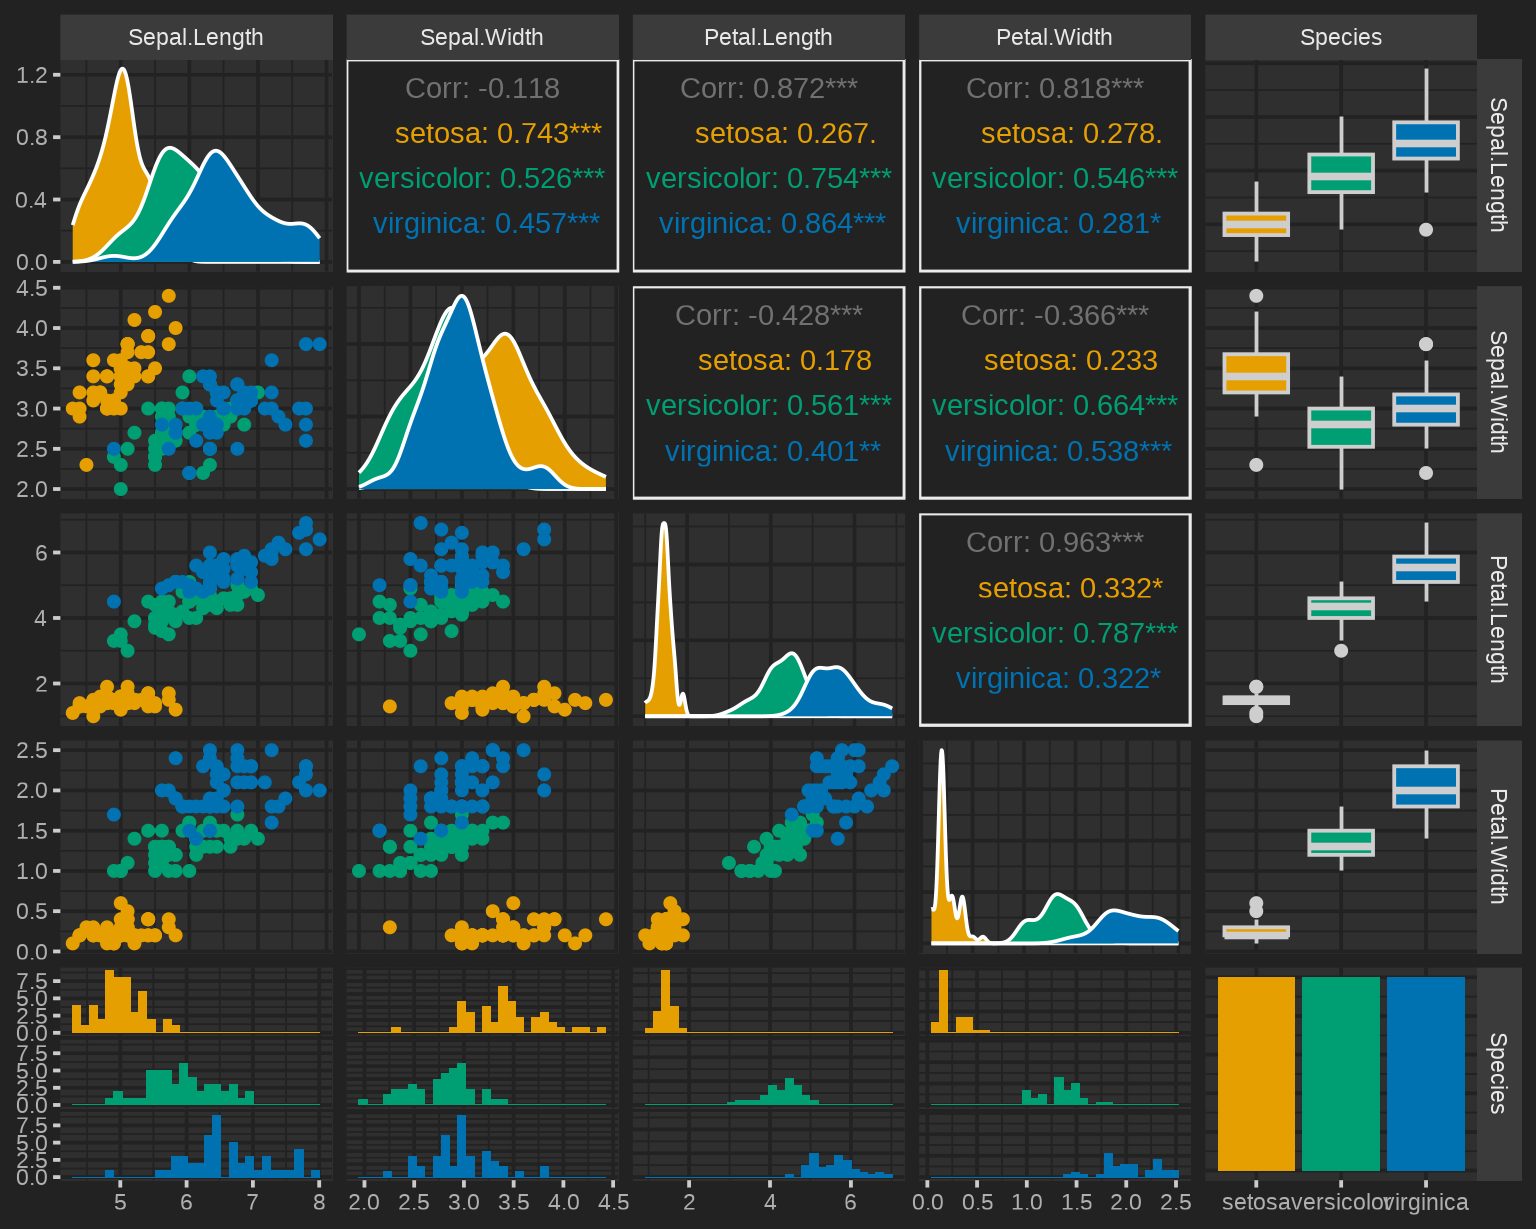
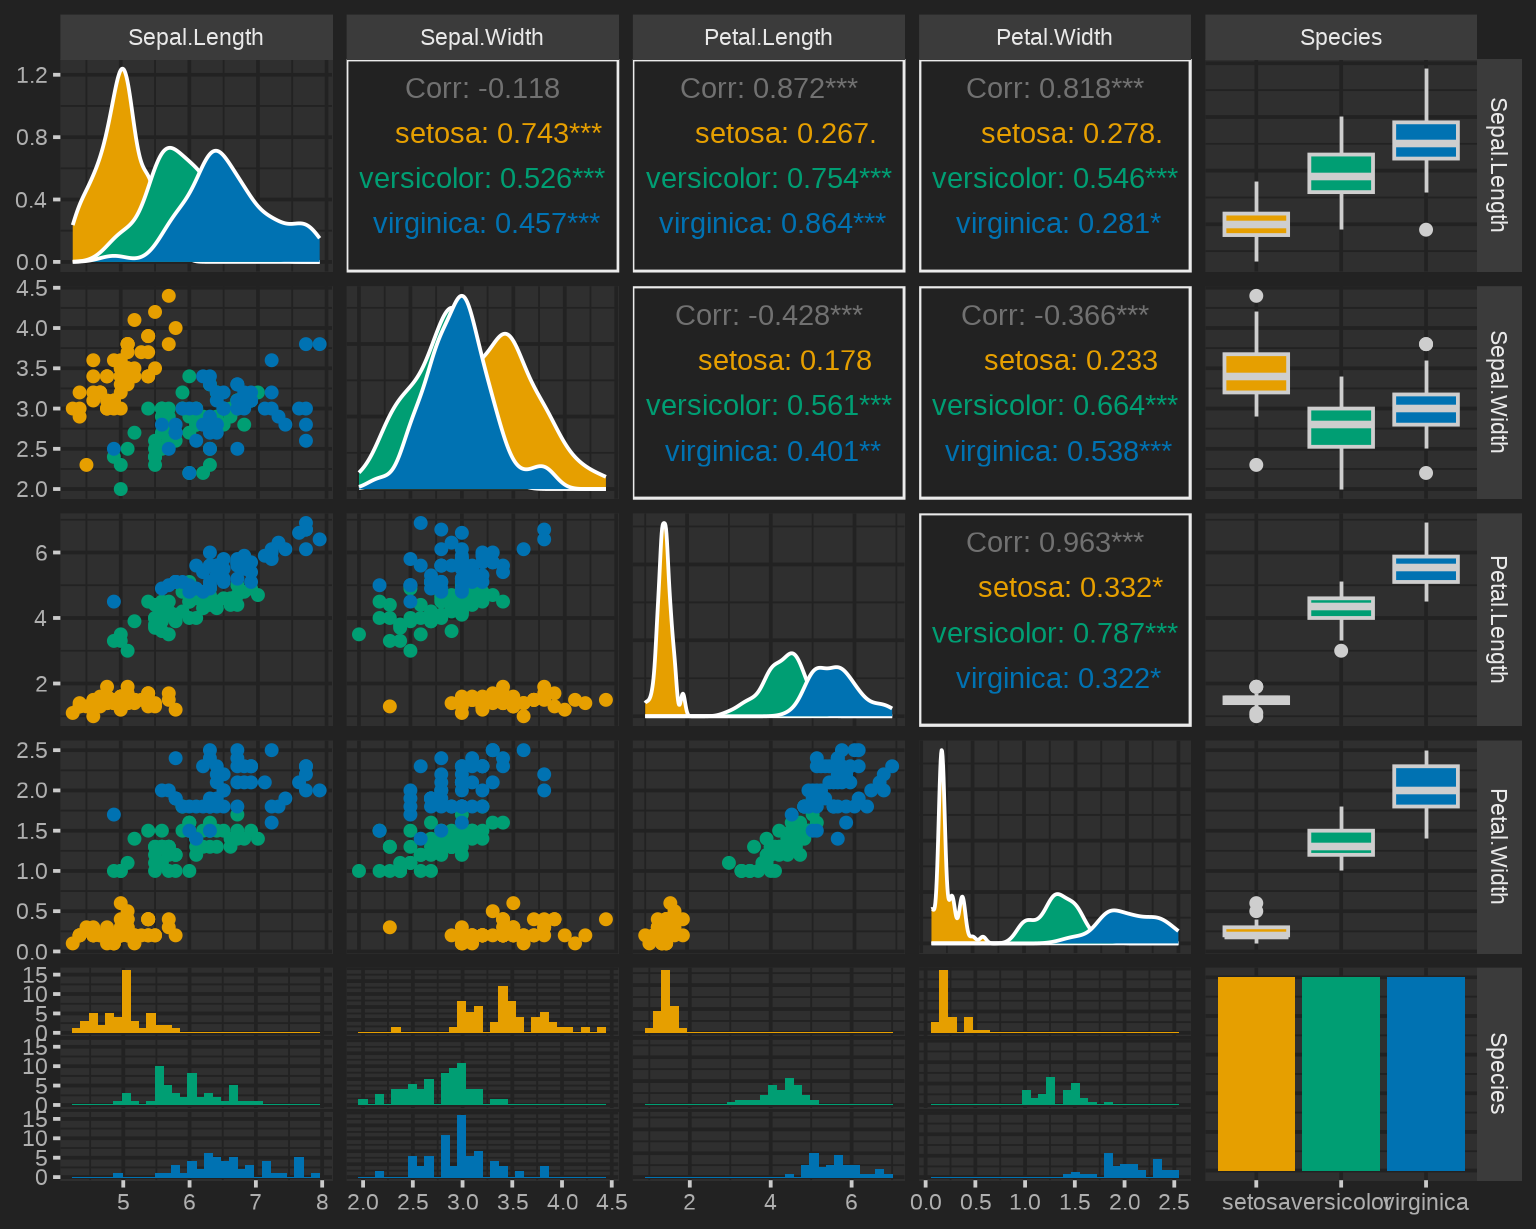
Built site for thematic@0.1.7.9000: b37d531

diff --git a/dev/index.html b/dev/index.html
@@ -223,9 +223,9 @@
 <div class="sourceCode" id="cb7"><pre class="downlit sourceCode r">
 <code class="sourceCode R"><span><span class="va">ggp</span> <span class="op">+</span> <span class="fu"><a href="https://ggplot2.tidyverse.org/reference/theme.html" class="external-link">theme</a></span><span class="op">(</span>text <span class="op">=</span> <span class="fu"><a href="https://ggplot2.tidyverse.org/reference/element.html" class="external-link">element_text</a></span><span class="op">(</span>colour <span class="op">=</span> <span class="st">"purple"</span><span class="op">)</span><span class="op">)</span></span></code></pre></div>
 <p><img src="reference/figures/README-ggrepel2-1.png" width="80%" style="display: block; margin: auto;"></p>
-<p>To use a “complete” <a href="https://ggplot2.tidyverse.org" class="external-link">ggplot2</a> theme with <a href="https://rstudio.github.io/thematic/" class="external-link">thematic</a> (e.g., <code><a href="https://ggplot2.tidyverse.org/reference/ggtheme.html" class="external-link">theme_bw()</a></code>, <code><a href="https://ggplot2.tidyverse.org/reference/ggtheme.html" class="external-link">theme_minimal()</a></code>, etc), use <code><a href="https://ggplot2.tidyverse.org/reference/theme_get.html" class="external-link">theme_set()</a></code> to set the theme globally. This way <a href="https://rstudio.github.io/thematic/" class="external-link">thematic</a> has the opportunity to preserve the complete theme’s styling semantics when changing global defaults (e.g., <code><a href="https://ggplot2.tidyverse.org/reference/ggtheme.html" class="external-link">theme_bw()</a></code> uses the same fill color for the panel and plot background, which is semantically different from the <code><a href="https://ggplot2.tidyverse.org/reference/ggtheme.html" class="external-link">theme_gray()</a></code> default):</p>
+<p>To use a “complete” <a href="https://ggplot2.tidyverse.org" class="external-link">ggplot2</a> theme with <a href="https://rstudio.github.io/thematic/" class="external-link">thematic</a> (e.g., <code><a href="https://ggplot2.tidyverse.org/reference/ggtheme.html" class="external-link">theme_bw()</a></code>, <code><a href="https://ggplot2.tidyverse.org/reference/ggtheme.html" class="external-link">theme_minimal()</a></code>, etc), use <code><a href="https://ggplot2.tidyverse.org/reference/get_theme.html" class="external-link">theme_set()</a></code> to set the theme globally. This way <a href="https://rstudio.github.io/thematic/" class="external-link">thematic</a> has the opportunity to preserve the complete theme’s styling semantics when changing global defaults (e.g., <code><a href="https://ggplot2.tidyverse.org/reference/ggtheme.html" class="external-link">theme_bw()</a></code> uses the same fill color for the panel and plot background, which is semantically different from the <code><a href="https://ggplot2.tidyverse.org/reference/ggtheme.html" class="external-link">theme_gray()</a></code> default):</p>
 <div class="sourceCode" id="cb8"><pre class="downlit sourceCode r">
-<code class="sourceCode R"><span><span class="fu"><a href="https://ggplot2.tidyverse.org/reference/theme_get.html" class="external-link">theme_set</a></span><span class="op">(</span><span class="fu"><a href="https://ggplot2.tidyverse.org/reference/ggtheme.html" class="external-link">theme_bw</a></span><span class="op">(</span><span class="op">)</span><span class="op">)</span></span>
+<code class="sourceCode R"><span><span class="fu"><a href="https://ggplot2.tidyverse.org/reference/get_theme.html" class="external-link">theme_set</a></span><span class="op">(</span><span class="fu"><a href="https://ggplot2.tidyverse.org/reference/ggtheme.html" class="external-link">theme_bw</a></span><span class="op">(</span><span class="op">)</span><span class="op">)</span></span>
 <span><span class="va">ggp</span></span></code></pre></div>
 <p><img src="reference/figures/README-ggrepel3-1.png" width="80%" style="display: block; margin: auto;"></p>
 <p>In addition to setting new defaults for main colors and fonts, <a href="https://rstudio.github.io/thematic/" class="external-link">thematic</a> also sets defaults for <code>qualitative</code> (and <code>sequential</code>) colorscales. See the <a href="https://rstudio.github.io/thematic/articles/custom.html" class="external-link">custom themes article</a> to learn more about how to customize those defaults.</p>

diff --git a/dev/articles/custom.html b/dev/articles/custom.html
@@ -108,7 +108,7 @@
                         <h4 data-toc-skip class="author">Carson
 Sievert</h4>
             
-            <h4 data-toc-skip class="date">2025-08-07</h4>
+            <h4 data-toc-skip class="date">2025-09-29</h4>
       
       <small class="dont-index">Source: <a href="https://github.com/rstudio/thematic/blob/main/vignettes/custom.Rmd" class="external-link"><code>vignettes/custom.Rmd</code></a></small>
       <div class="hidden name"><code>custom.Rmd</code></div>
@@ -298,11 +298,11 @@ plot (i.e., <code>ggsmooth + theme_classic()</code>) it would override
 all the <code><a href="https://ggplot2.tidyverse.org/reference/theme.html" class="external-link">theme()</a></code>-specific defaults set by
 <strong>thematic</strong>, which likely isn’t what you want.</p>
 <div class="sourceCode" id="cb15"><pre class="downlit sourceCode r">
-<code class="sourceCode R"><span><span class="fu">ggplot2</span><span class="fu">::</span><span class="fu"><a href="https://ggplot2.tidyverse.org/reference/theme_get.html" class="external-link">theme_set</a></span><span class="op">(</span><span class="fu">ggplot2</span><span class="fu">::</span><span class="fu"><a href="https://ggplot2.tidyverse.org/reference/ggtheme.html" class="external-link">theme_classic</a></span><span class="op">(</span><span class="op">)</span><span class="op">)</span></span>
+<code class="sourceCode R"><span><span class="fu">ggplot2</span><span class="fu">::</span><span class="fu"><a href="https://ggplot2.tidyverse.org/reference/get_theme.html" class="external-link">theme_set</a></span><span class="op">(</span><span class="fu">ggplot2</span><span class="fu">::</span><span class="fu"><a href="https://ggplot2.tidyverse.org/reference/ggtheme.html" class="external-link">theme_classic</a></span><span class="op">(</span><span class="op">)</span><span class="op">)</span></span>
 <span><span class="fu"><a href="../reference/thematic_on.html">thematic_on</a></span><span class="op">(</span>bg <span class="op">=</span> <span class="st">"#222222"</span>, fg <span class="op">=</span> <span class="st">"white"</span><span class="op">)</span></span>
 <span><span class="va">ggsmooth</span></span>
 <span><span class="co"># Now go back to the default</span></span>
-<span><span class="fu">ggplot2</span><span class="fu">::</span><span class="fu"><a href="https://ggplot2.tidyverse.org/reference/theme_get.html" class="external-link">theme_set</a></span><span class="op">(</span><span class="fu">ggplot2</span><span class="fu">::</span><span class="fu"><a href="https://ggplot2.tidyverse.org/reference/ggtheme.html" class="external-link">theme_gray</a></span><span class="op">(</span><span class="op">)</span><span class="op">)</span></span></code></pre></div>
+<span><span class="fu">ggplot2</span><span class="fu">::</span><span class="fu"><a href="https://ggplot2.tidyverse.org/reference/get_theme.html" class="external-link">theme_set</a></span><span class="op">(</span><span class="fu">ggplot2</span><span class="fu">::</span><span class="fu"><a href="https://ggplot2.tidyverse.org/reference/ggtheme.html" class="external-link">theme_gray</a></span><span class="op">(</span><span class="op">)</span><span class="op">)</span></span></code></pre></div>
 <p><img src="custom_files/figure-html/unnamed-chunk-15-1.png" width="70%" style="display: block; margin: auto;"></p>
 <p>Other <strong>ggplot2</strong> extension packages such as
 <strong>ggthemes</strong> also provide useful complete themes. The image

diff --git a/dev/articles/auto.html b/dev/articles/auto.html
@@ -108,7 +108,7 @@
                         <h4 data-toc-skip class="author">Carson
 Sievert</h4>
             
-            <h4 data-toc-skip class="date">2025-08-07</h4>
+            <h4 data-toc-skip class="date">2025-09-29</h4>
       
       <small class="dont-index">Source: <a href="https://github.com/rstudio/thematic/blob/main/vignettes/auto.Rmd" class="external-link"><code>vignettes/auto.Rmd</code></a></small>
       <div class="hidden name"><code>auto.Rmd</code></div>
@@ -229,9 +229,9 @@ article</a>, you can always override the defaults set by
 a different <em>complete</em> <strong>ggplot2</strong> theme (e.g.,
 <code><a href="https://ggplot2.tidyverse.org/reference/ggtheme.html" class="external-link">theme_minimal()</a></code> instead of the default
 <code><a href="https://ggplot2.tidyverse.org/reference/ggtheme.html" class="external-link">theme_gray()</a></code>), you should set the theme globally with
-<code><a href="https://ggplot2.tidyverse.org/reference/theme_get.html" class="external-link">ggplot2::theme_set()</a></code>.</p>
+<code><a href="https://ggplot2.tidyverse.org/reference/get_theme.html" class="external-link">ggplot2::theme_set()</a></code>.</p>
 <div class="sourceCode" id="cb4"><pre class="downlit sourceCode r">
-<code class="sourceCode R"><span><span class="fu">ggplot2</span><span class="fu">::</span><span class="fu"><a href="https://ggplot2.tidyverse.org/reference/theme_get.html" class="external-link">theme_set</a></span><span class="op">(</span><span class="fu">ggplot2</span><span class="fu">::</span><span class="fu"><a href="https://ggplot2.tidyverse.org/reference/ggtheme.html" class="external-link">theme_minimal</a></span><span class="op">(</span><span class="op">)</span><span class="op">)</span></span>
+<code class="sourceCode R"><span><span class="fu">ggplot2</span><span class="fu">::</span><span class="fu"><a href="https://ggplot2.tidyverse.org/reference/get_theme.html" class="external-link">theme_set</a></span><span class="op">(</span><span class="fu">ggplot2</span><span class="fu">::</span><span class="fu"><a href="https://ggplot2.tidyverse.org/reference/ggtheme.html" class="external-link">theme_minimal</a></span><span class="op">(</span><span class="op">)</span><span class="op">)</span></span>
 <span><span class="fu"><a href="../reference/thematic_on.html">thematic_shiny</a></span><span class="op">(</span><span class="op">)</span></span>
 <span><span class="fu"><a href="https://rdrr.io/pkg/shiny/man/shinyApp.html" class="external-link">shinyApp</a></span><span class="op">(</span><span class="va">ui</span>, <span class="va">server</span><span class="op">)</span></span></code></pre></div>
 <p><img src="tabsets-darkly-thematic-minimal.png" width="70%" style="display: block; margin: auto;"></p>

diff --git a/dev/articles/scope.html b/dev/articles/scope.html
@@ -108,7 +108,7 @@
                         <h4 data-toc-skip class="author">Carson
 Sievert</h4>
             
-            <h4 data-toc-skip class="date">2025-08-07</h4>
+            <h4 data-toc-skip class="date">2025-09-29</h4>
       
       <small class="dont-index">Source: <a href="https://github.com/rstudio/thematic/blob/main/vignettes/scope.Rmd" class="external-link"><code>vignettes/scope.Rmd</code></a></small>
       <div class="hidden name"><code>scope.Rmd</code></div>
@@ -120,7 +120,7 @@ Sievert</h4>
 <p>As we’ve learned in previous articles, <code><a href="../reference/thematic_on.html">thematic_on()</a></code>
 works by modifying global state (i.e., it changes global
 <code><a href="https://rdrr.io/r/graphics/par.html" class="external-link">par()</a></code>, <code><a href="https://rdrr.io/r/grDevices/palette.html" class="external-link">palette()</a></code>,
-<code><a href="https://ggplot2.tidyverse.org/reference/theme_get.html" class="external-link">ggplot2::theme_set()</a></code>, and various other settings). This
+<code><a href="https://ggplot2.tidyverse.org/reference/get_theme.html" class="external-link">ggplot2::theme_set()</a></code>, and various other settings). This
 makes it simple to start using <strong>thematic</strong> everywhere, but
 it comes at the cost of possibly introducing unwanted side-effects in
 other R code. <code><a href="../reference/thematic_on.html">thematic_shiny()</a></code> and

diff --git a/dev/news/index.html b/dev/news/index.html
@@ -78,7 +78,8 @@
 
     <div class="section level2">
 <h2 class="page-header" data-toc-text="development version" id="thematic-development-version">thematic (development version)<a class="anchor" aria-label="anchor" href="#thematic-development-version"></a></h2>
-<ul><li>Added requirement of ggplot2 &gt;= 3.5.2. (<a href="https://github.com/rstudio/thematic/issues/161" class="external-link">#161</a>, thanks <a href="https://github.com/antivirak" class="external-link">@antivirak</a>)</li>
+<ul><li>Fixed an compatibility issue with the new ggplot2 v4.0.0 release. (<a href="https://github.com/rstudio/thematic/issues/164" class="external-link">#164</a>, thanks <a href="https://github.com/teunbrand" class="external-link">@teunbrand</a>)</li>
+<li>Added requirement of ggplot2 &gt;= 3.5.2. (<a href="https://github.com/rstudio/thematic/issues/161" class="external-link">#161</a>, thanks <a href="https://github.com/antivirak" class="external-link">@antivirak</a>)</li>
 </ul></div>
     <div class="section level2">
 <h2 class="page-header" data-toc-text="0.1.7" id="thematic-017">thematic 0.1.7<small>2025-06-19</small><a class="anchor" aria-label="anchor" href="#thematic-017"></a></h2>

diff --git a/dev/articles/fonts.html b/dev/articles/fonts.html
@@ -108,7 +108,7 @@
                         <h4 data-toc-skip class="author">Carson
 Sievert</h4>
             
-            <h4 data-toc-skip class="date">2025-08-07</h4>
+            <h4 data-toc-skip class="date">2025-09-29</h4>
       
       <small class="dont-index">Source: <a href="https://github.com/rstudio/thematic/blob/main/vignettes/fonts.Rmd" class="external-link"><code>vignettes/fonts.Rmd</code></a></small>
       <div class="hidden name"><code>fonts.Rmd</code></div>
